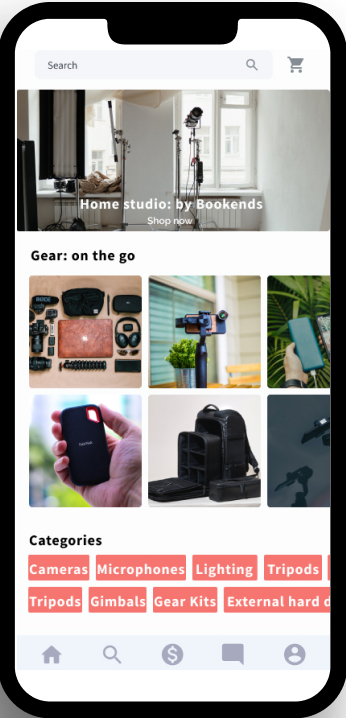
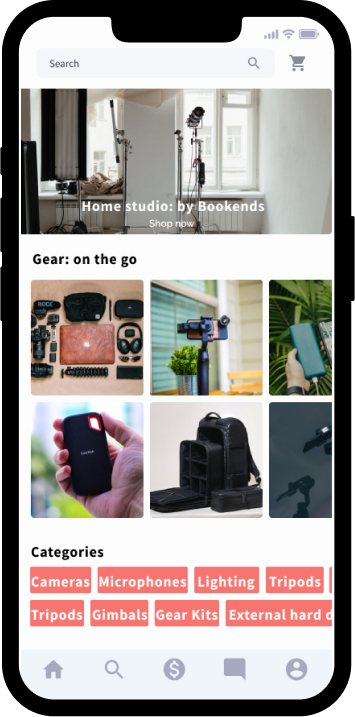
add new iphone pics and fix desktop layout

diff --git a/app/page.tsx b/app/page.tsx
@@ -16,7 +16,7 @@ export default function Home() {
               height={80}
               className="rounded-sm"   />
             </div>
-            <h1 className='ml-3 -mt-7 font-raleway text-black text-[95px] font-black '>
+            <h1 className='ml-3 -mt-8 font-raleway text-black text-[98px] font-semibold'>
               bookends
             </h1>
           </div>
@@ -29,7 +29,7 @@ export default function Home() {
           Your Second-Hand Creative Marketplace.
         </h1>
 
-        <p className='flex-grow font-raleway text-[24px] font-light w-[75%] mb-3'>
+        <p className='flex-grow font-raleway text-[24px] font-light w-[60%] mb-3'>
           Whether you&apos;re lighting up your first YouTube scene or crafting
           cinema-scale stories, Bookends is your go-to marketplace. Here,
           creatives of all calibers connect to buy and sell pre-loved gear.
@@ -38,25 +38,25 @@ export default function Home() {
           <Subscribe />
       </div>
 
-      <div className='flex-1  no-scrollbar w-4/9'>
-        <div className='flex static'>
+  
+        <div className='flex'>
           <Image
             src='/images/iPhone14.png'
             alt='bookends demo image iphone14'
             width='349'
             height='716'
             sizes='100vw'
-            className='absolute ml-8 bottom-4 drop-shadow-4xl'
+            className='p-1 absolute h-auto max-w-xs drop-shadow-2xl right-[245px] top-[22%]'
           />
           <Image
             src='/images/iPhone13.png'
             alt='bookends demo image iphone13'
             width='349'
             height='716'
-            className='absolute ml-2 -top-[14%] -right-[138px] drop-shadow-4xl'
+            className='p-1 absolute h-auto max-w-xs top-[5%] right-[28px] drop-shadow-2xl -z-10'
           />
         </div>
-      </div>
+ 
     </main>
   );
 }

diff --git a/app/globals.css b/app/globals.css
@@ -1,4 +1,6 @@
-@import url('https://fonts.googleapis.com/css2?family=Raleway&display=swap');
+/* @import url('https://fonts.googleapis.com/css2?family=Raleway&display=swap'); */
+
+@import url('https://fonts.googleapis.com/css2?family=Raleway:wght@100;200;300;400;500;600;700;800;900&display=swap');
 
 @tailwind base;
 @tailwind components;
